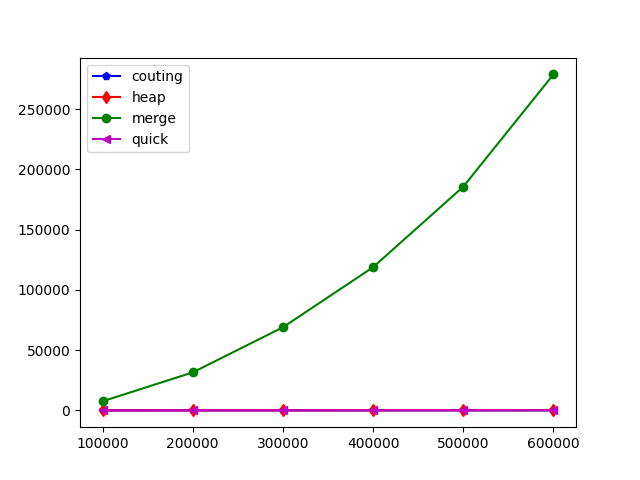
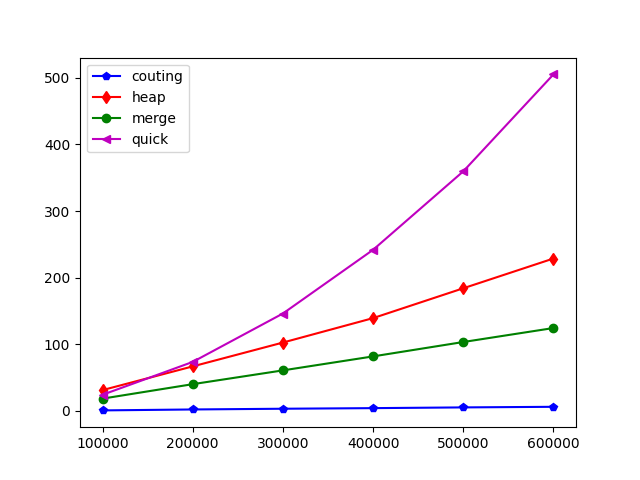
corregido

diff --git a/prac1_sorts/c++ src/Tgraficas2.py b/prac1_sorts/c++ src/Tgraficas2.py
@@ -9,8 +9,8 @@ for chunk in datos:
 	x = list(chunk.iloc[:,0])
 	y1 = list(chunk.iloc[:,1])
 	y2 = list(chunk.iloc[:,2])
-	y3 = list(chunk.iloc[:,3])
-	y4 = list(chunk.iloc[:,4])
+	y3 = list(chunk.iloc[:,4])
+	y4 = list(chunk.iloc[:,5])
 
 #	print(x)
 #	print(y)
@@ -20,8 +20,8 @@ print(y1)
 print(y2)
 print(y3)
 print(y4)
-plot(x,y1,'bp-',x,y2,'rd-',x,y4,'m<-')
-legend(('couting','heap','quick'),prop = {'size':10},loc='upper left')
+plot(x,y1,'bp-',x,y2,'rd-',x,y3,'go-',x,y4,'m<-')
+legend(('couting','heap','merge','quick'),prop = {'size':10},loc='upper left')
 '''
 x,y3,'go-',
 ,'merge'
